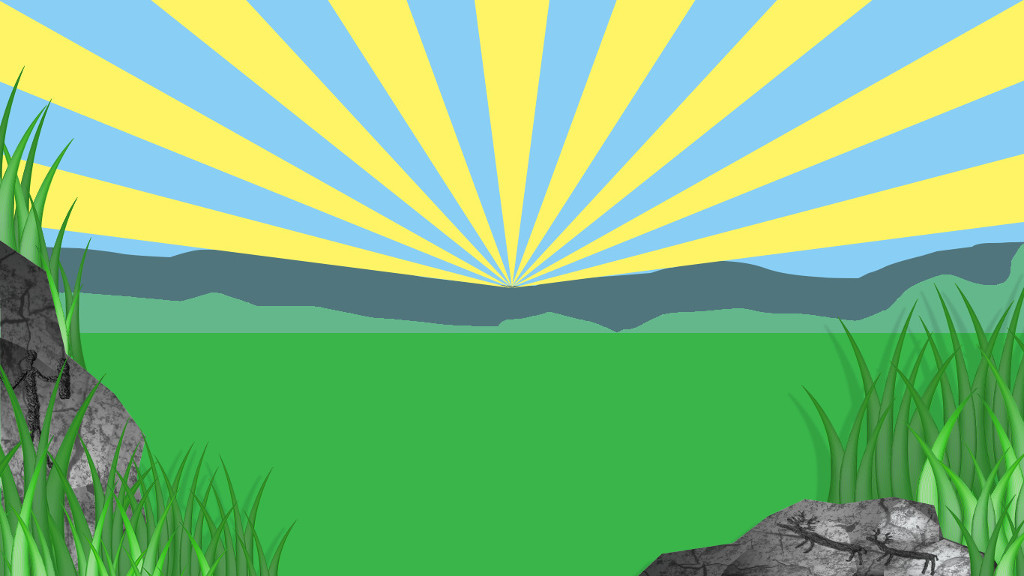
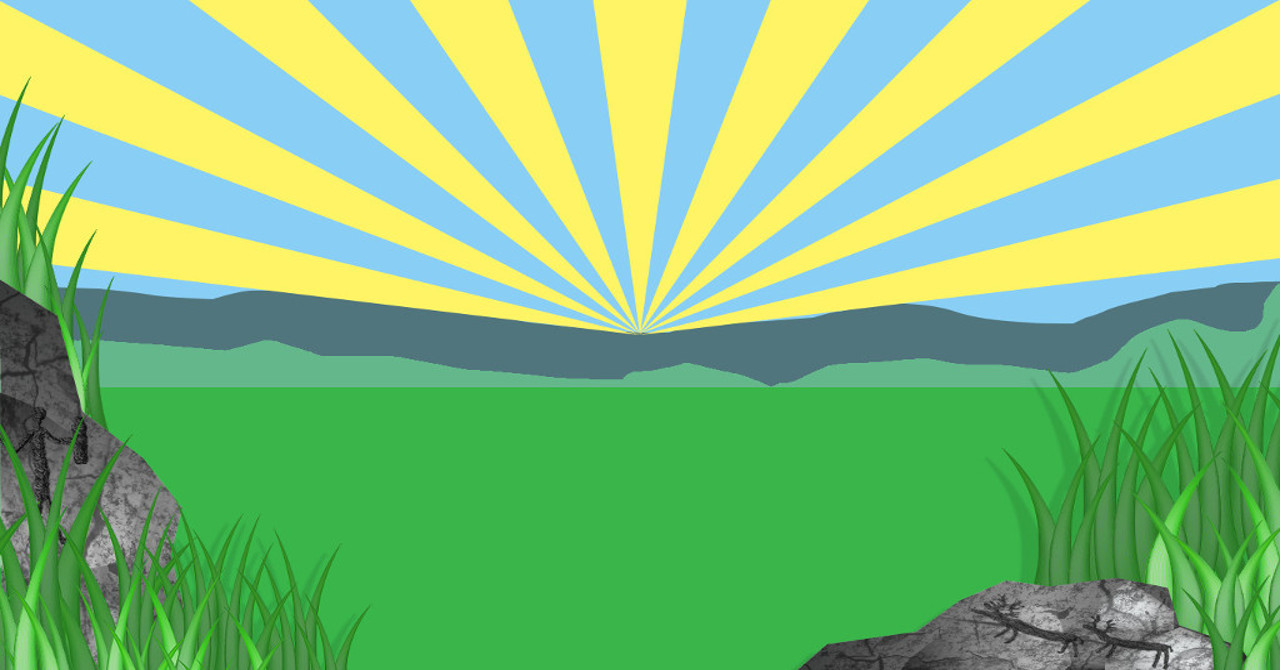
Background scrolling, configure page

Changed region(s): [[0.4688, 0.4688, 0.5312, 0.5], [0.0312, 0.1875, 0.0625, 0.2188]]

diff --git a/pitotiConfigure.html b/pitotiConfigure.html
@@ -5,22 +5,24 @@
     <title>Configure</title>
 
     <script type="text/javascript" src="js/jquery-1.11.2.min.js"></script>
-    <script type="text/javascript" src="js/skel.min.js"></script>
+    <script type="text/javascript" src="js/bootstrap.min.js"></script>
     <script type="text/javascript" src="js/pitotiConfigure.js?v=0.2"></script>
 
+    <link rel="stylesheet" href="css/bootstrap.min.css?v=0.1">
+    <link rel="stylesheet" href="css/bootstrap-theme.min.css?v=0.1">
     <link href="css/pitotiStyles.css?v=0.6" rel="stylesheet" type="text/css">
 </head>
 <body>
 
-<div class="page">
-    <div class="row 0%">
-        <div class="3u">
+<div class="page container-fluid">
+    <div class="row">
+        <div class="col-md-3">
             <div class="previousPageColumn">
-                <a href="pitotiWelcome.html"><img src="images/back.png"></a>
+                <a href="pitotiCreate.html"><img src="images/backButton.png"></a>
             </div>
         </div>
 
-        <div class="6u">
+        <div class="col-md-6">
             <div id="configureEntry">
                 <p>
                     If you would like us to send you your Pitoti stories then please enter your name and e-mail address below.<br>
@@ -32,15 +34,15 @@
                     E-mail: <input id="mail" type="email" name="email"><br>
                     <button class="actionButton" type="submit" id="storeDetails">Submit</button>
                 </form>
-                <p id="entered" class="hide">
+                <p id="entered" class="noDisplay">
                     Thanks! Your information has been stored
                 </p>
             </div>
         </div>
 
-        <div class="3u">
-            <div >
-                <a href="pitotiMenu.html"><img src="images/next.png"></a>
+        <div class="col-md-3">
+            <div class="nextPageColumn">
+                <a href="pitotiAR.html"><img src="images/nextButton.png"></a>
             </div>
         </div>
     </div>

diff --git a/css/pitotiStyles.css b/css/pitotiStyles.css
@@ -44,9 +44,25 @@ table, caption, tbody, tfoot, thead, tr, th, td {
     letter-spacing: normal;
 }
 /* Common page styles */
-body {
-    background: url("../images/rockBackground.jpg") no-repeat center top fixed;
+
+html {
+    background: url("../images/rockBackground.jpg") no-repeat center center fixed;
+    -webkit-background-size: cover;
+    -moz-background-size: cover;
+    -o-background-size: cover;
     background-size: cover;
+}
+
+body {
+    background-color: transparent;
+}
+#startImage {
+    background: url("../images/background.jpg") no-repeat center center fixed;
+    -webkit-background-size: cover;
+    -moz-background-size: cover;
+    -o-background-size: cover;
+    background-size: cover;
+    height: 100vh;
 }
 .italics {
     font-style: italic;
@@ -67,7 +83,7 @@ body {
 }
 .pitotiLogo {
     position: absolute;
-    top: 72.5%;
+    top: 82.5%;
     right: 2%;
     text-align: right;
 }
@@ -218,15 +234,12 @@ body {
 /* PAGES */
 
 /* Start page */
-#startImage {
-    background: url("../images/background.jpg") no-repeat center top fixed;
-    background-size: cover;
-}
+
 #startAzir {
     text-align: right;
 }
 #startAzir {
-    margin-top: 5%;
+    margin-top: 3%;
 }
 #startAzir img {
     width: 90%;
@@ -240,7 +253,7 @@ body {
 }
 #startButton {
     text-align: center;
-    margin-top: 5%;
+    margin-top: 2%;
 }
 .intro {
     -webkit-animation-name: bounce;
@@ -357,7 +370,7 @@ body {
     margin-top: 2.5%;
 }
 #hotSpotsSeradina img {
-    width: 95%;
+    width: 90%;
 }
 
 #seradinaSpot1 {
@@ -523,7 +536,7 @@ body {
     background-size: cover;
 }
 #instructionArrows {
-    margin-top: 40%;
+    margin-top: 30%;
 }
 
 

diff --git a/pitotiCreate.html b/pitotiCreate.html
@@ -1,5 +1,5 @@
 <!DOCTYPE html>
-<html>
+<html id="instructions">
 <head lang="en">
     <meta name="viewport" content="width=device-width, initial-scale=1, maximum-scale=1">
     <title>Menu</title>
@@ -11,7 +11,7 @@
     <link rel="stylesheet" href="css/bootstrap-theme.min.css?v=0.1">
     <link href="css/pitotiStyles.css?v=0.7" rel="stylesheet" type="text/css">
 </head>
-<body id="instructions">
+<body>
 
 <div class="container-fluid">
     <div id="instructionArrows" class="row">
@@ -25,7 +25,7 @@
         </div>
         <div class="col-md-3">
             <div class="nextPageColumn">
-                <a href="pitotiAR.html"><img src="images/nextButton.png"></a>
+                <a href="pitotiConfigure.html"><img src="images/nextButton.png"></a>
             </div>
         </div>
     </div>

diff --git a/pitotiHotSpotFoppe2.html b/pitotiHotSpotFoppe2.html
@@ -1,5 +1,5 @@
 <!DOCTYPE html>
-<html>
+<html class="blank">
 <head lang="en">
     <meta name="viewport" content="width=device-width, initial-scale=1, maximum-scale=1">
     <title>Stories</title>
@@ -11,7 +11,7 @@
     <link rel="stylesheet" href="css/bootstrap-theme.min.css?v=0.1">
     <link href="css/pitotiStyles.css?v=0.7" rel="stylesheet" type="text/css">
 </head>
-<body class="blank">
+<body>
 
 <div class="page container-fluid">
     <div class="row">
@@ -32,7 +32,7 @@
         <div id="foppe2" class="col-md-6">
             <img src="images/letters.jpg">
         </div>
-        <div id="foppe1Stories" class="col-md-3">
+        <div id="foppe1Stories" class="col-md-3 noDisplay">
             <div>
                 <button class="actionButton">Story 1</button>
             </div>

diff --git a/pitotiHotSpotFoppe3.html b/pitotiHotSpotFoppe3.html
@@ -1,5 +1,5 @@
 <!DOCTYPE html>
-<html>
+<html class="blank">
 <head lang="en">
     <meta name="viewport" content="width=device-width, initial-scale=1, maximum-scale=1">
     <title>Stories</title>
@@ -12,7 +12,7 @@
 
     <link href="css/pitotiStyles.css?v=0.7" rel="stylesheet" type="text/css">
 </head>
-<body class="blank">
+<body>
 
 <div class="page container-fluid">
     <div class="row">
@@ -33,7 +33,7 @@
         <div id="foppe3" class="col-md-6">
             <img src="images/deer.jpg">
         </div>
-        <div id="foppe1Stories" class="col-md-3">
+        <div id="foppe1Stories" class="col-md-3 noDisplay">
             <div>
                 <button class="actionButton">Story 1</button>
             </div>

diff --git a/pitotiHotSpotFoppe1.html b/pitotiHotSpotFoppe1.html
@@ -1,5 +1,5 @@
 <!DOCTYPE html>
-<html>
+<html class="blank">
 <head lang="en">
     <meta name="viewport" content="width=device-width, initial-scale=1, maximum-scale=1">
     <title>Stories</title>
@@ -14,7 +14,7 @@
     <link href="css/pitotiStyles.css?v=0.7" rel="stylesheet" type="text/css">
 
 </head>
-<body class="blank">
+<body>
 
 <div class="page container-fluid">
     <div class="row">

diff --git a/pitotiHotSpotSeradina1.html b/pitotiHotSpotSeradina1.html
@@ -1,5 +1,5 @@
 <!DOCTYPE html>
-<html>
+<html class="blank">
 <head lang="en">
     <meta name="viewport" content="width=device-width, initial-scale=1, maximum-scale=1">
     <title>Stories</title>
@@ -14,7 +14,7 @@
 
     <link href="css/pitotiStyles.css?v=0.7" rel="stylesheet" type="text/css">
 </head>
-<body class="blank">
+<body>
 
 <div class="page container-fluid">
     <div class="row">

diff --git a/pitotiHotSpotSeradina2.html b/pitotiHotSpotSeradina2.html
@@ -1,5 +1,5 @@
 <!DOCTYPE html>
-<html>
+<html class="blank">
 <head lang="en">
     <meta name="viewport" content="width=device-width, initial-scale=1, maximum-scale=1">
     <title>Stories</title>
@@ -19,7 +19,7 @@
     <link href="css/pitotiStyles.css?v=0.7" rel="stylesheet" type="text/css">
 
 </head>
-<body class="blank">
+<body>
 
 <div class="page container-fluid">
     <div class="row">

diff --git a/pitotiAR.html b/pitotiAR.html
@@ -33,7 +33,7 @@
     <div class="row">
         <div class="col-md-3">
             <div class="previousPageColumn">
-                <a href="pitotiCreate.html"><img src="images/backButton.png"></a>
+                <a href="pitotiConfigure.html"><img src="images/backButton.png"></a>
             </div>
             <div class="row">
                 <div class="col-md-6 drop">

diff --git a/pitotiHotSpotsFoppe.html b/pitotiHotSpotsFoppe.html
@@ -1,5 +1,5 @@
 <!DOCTYPE html>
-<html>
+<html class="blank">
 <head lang="en">
     <meta name="viewport" content="width=device-width, initial-scale=1, maximum-scale=1">
     <title>Stories</title>
@@ -12,7 +12,7 @@
     <link href="css/pitotiStyles.css?v=0.6" rel="stylesheet" type="text/css">
 
 </head>
-<body class="blank">
+<body>
 
 <div class="page container-fluid">
 

diff --git a/pitotiHotSpotsSeradina.html b/pitotiHotSpotsSeradina.html
@@ -1,5 +1,5 @@
 <!DOCTYPE html>
-<html>
+<html class="blank">
 <head lang="en">
     <meta name="viewport" content="width=device-width, initial-scale=1, maximum-scale=1">
     <title>Stories</title>
@@ -12,7 +12,7 @@
 
     <link href="css/pitotiStyles.css?v=0.7" rel="stylesheet" type="text/css">
 </head>
-<body class="blank">
+<body>
 
 <div class="page container-fluid">
 

diff --git a/js/pitotiConfigure.js b/js/pitotiConfigure.js
@@ -4,8 +4,6 @@
 
 
 $(document).ready(function() {
-    //Do any init
-    skel.init();
 
     //Store user details
     var form = document.getElementById("enterDetails");
